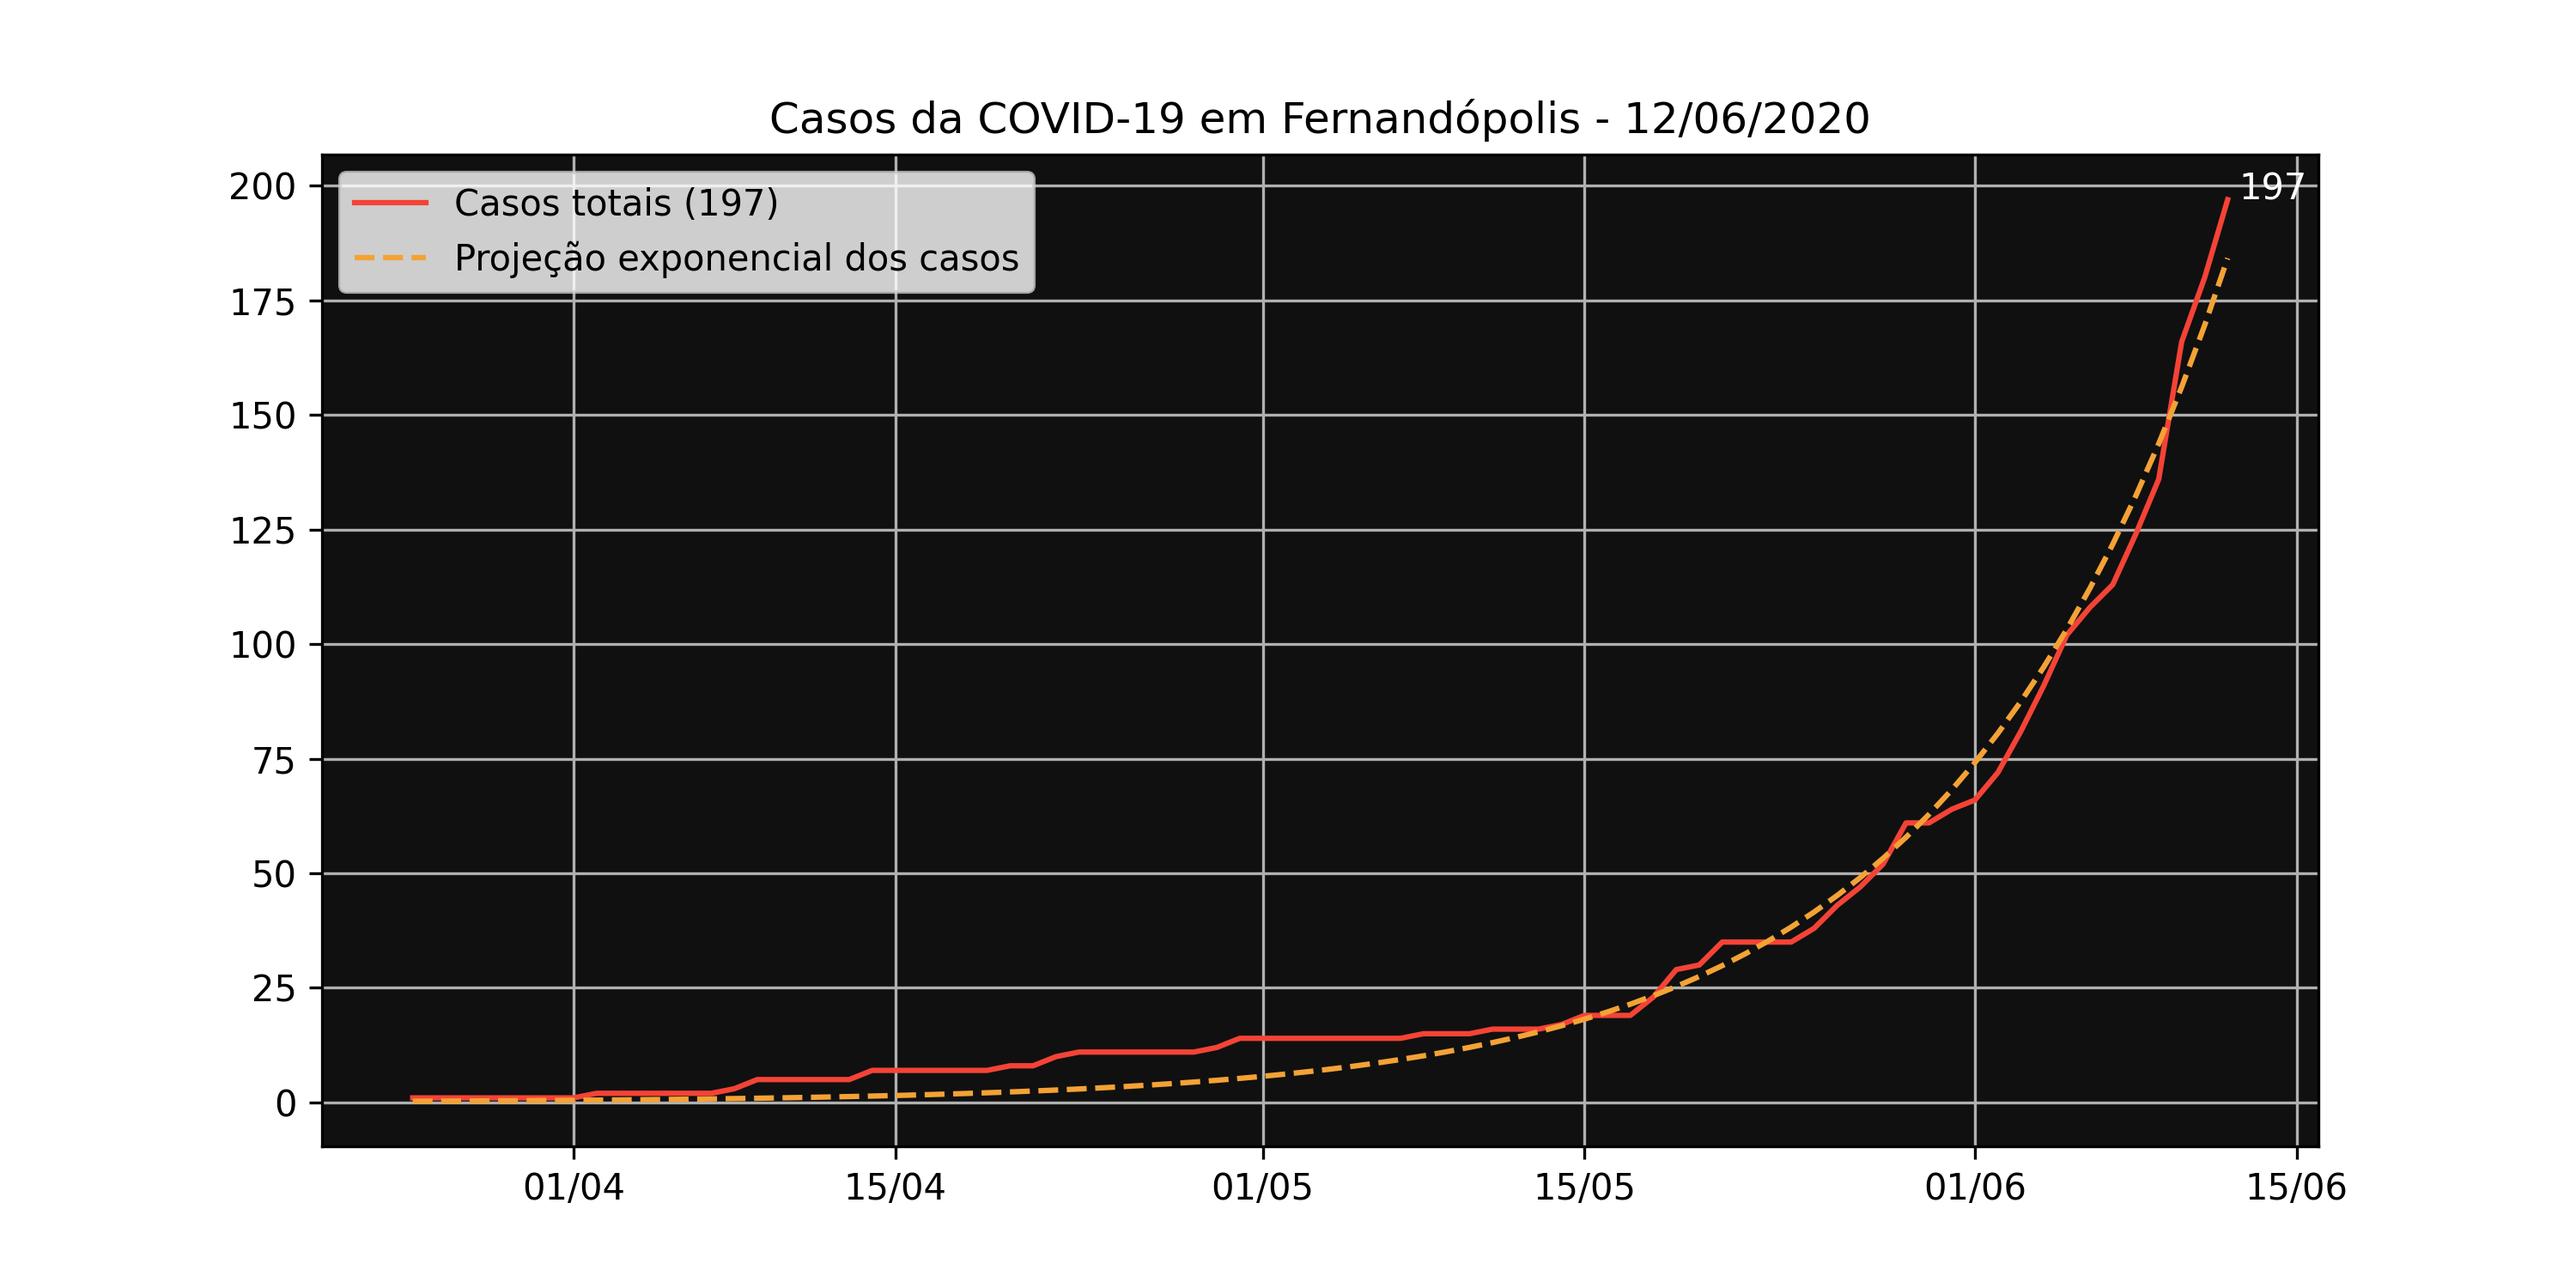
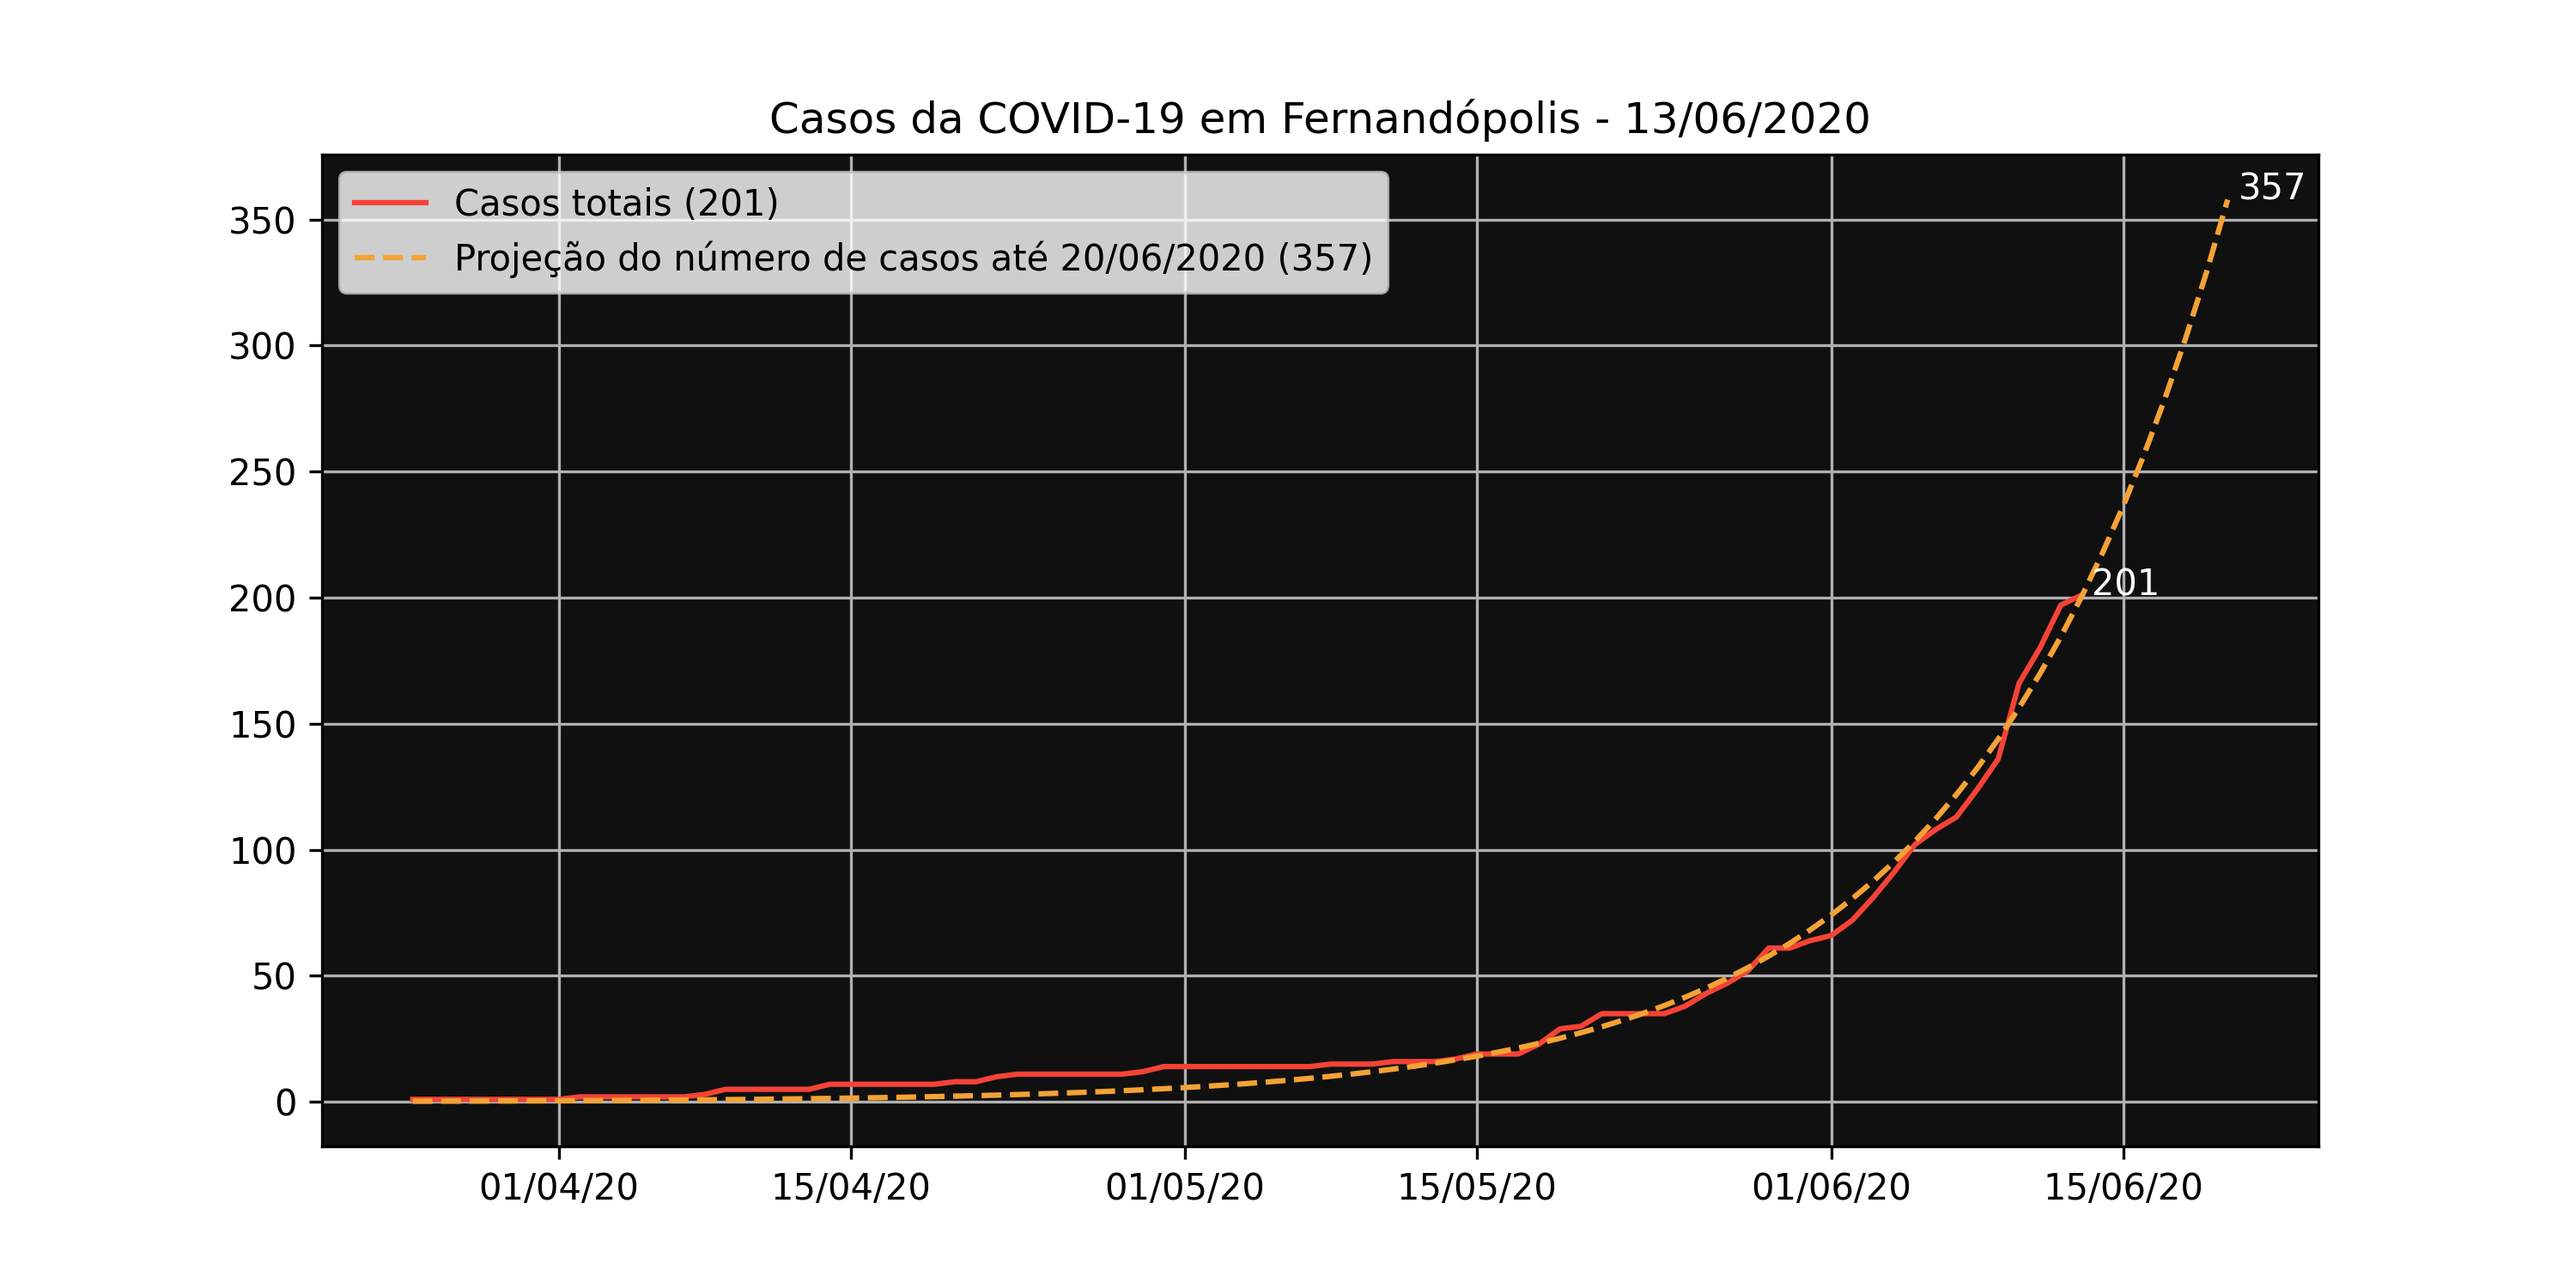
atualização sáb 13 jun 2020 19:39:33 -03

diff --git a/chart-generator/main.py b/chart-generator/main.py
@@ -1,7 +1,7 @@
 from datetime import datetime, timedelta
-import numpy as np
-import matplotlib.pyplot as plt
 import matplotlib.dates as mdates
+import matplotlib.pyplot as plt
+import numpy as np
 import pandas as pd
 import scipy.optimize as opt
 
@@ -15,18 +15,36 @@ def area_chart(ds, dateFmt):
     fig.set_dpi(300)
 
     # draw the curves
-    ax.fill_between(ds['Data'], ds['Casos acumulados'], color='#f44336',
-                    label='Casos totais ({})'.format(ds['Casos acumulados'].values[-1]))
-    ax.stackplot(ds['Data'], ds['Óbitos acumulados'], ds['Curados acumulados'], colors=['#9a9a9a', '#009688'], labels=[
-                 'Óbitos totais ({})'.format(ds['Óbitos acumulados'].values[-1]), 'Curados totais ({})'.format(ds['Curados acumulados'].values[-1])])
+    ax.fill_between(
+        ds['Data'],
+        ds['Casos acumulados'],
+        color='#f44336',
+        label='Casos totais ({})'.format(ds['Casos acumulados'].values[-1]))
+    ax.stackplot(
+        ds['Data'],
+        ds['Óbitos acumulados'],
+        ds['Curados acumulados'],
+        colors=['#9a9a9a', '#009688'],
+        labels=[
+            'Óbitos totais ({})'.format(ds['Óbitos acumulados'].values[-1]),
+            'Curados totais ({})'.format(ds['Curados acumulados'].values[-1])])
 
     # write the total number at the end of the curves
-    ax.text(ds['Data'].values[-1] + np.timedelta64(12, 'h'),
-            ds['Casos acumulados'].values[-1], str(ds['Casos acumulados'].values[-1]), color='w')
-    ax.text(ds['Data'].values[-1] + np.timedelta64(12, 'h'),
-            ds['Curados acumulados'].values[-1], str(ds['Curados acumulados'].values[-1]), color='w')
-    ax.text(ds['Data'].values[-1] + np.timedelta64(12, 'h'),
-            ds['Óbitos acumulados'].values[-1], str(ds['Óbitos acumulados'].values[-1]), color='w')
+    ax.text(
+        ds['Data'].values[-1] + np.timedelta64(12, 'h'),
+        ds['Casos acumulados'].values[-1],
+        str(ds['Casos acumulados'].values[-1]),
+        color='w')
+    ax.text(
+        ds['Data'].values[-1] + np.timedelta64(12, 'h'),
+        ds['Curados acumulados'].values[-1],
+        str(ds['Curados acumulados'].values[-1]),
+        color='w')
+    ax.text(
+        ds['Data'].values[-1] + np.timedelta64(12, 'h'),
+        ds['Óbitos acumulados'].values[-1],
+        str(ds['Óbitos acumulados'].values[-1]),
+        color='w')
 
     # set chart style
     ax.xaxis.set_major_formatter(dateFmt)
@@ -34,8 +52,9 @@ def area_chart(ds, dateFmt):
     ax.set_facecolor('#101010')
 
     # set chart title
-    ax.title.set_text('Situação geral da COVID-19 em Fernandópolis - {}'.format(
-        ds['Data'].iloc[-1].strftime('%d/%m/%Y')))
+    ax.title.set_text(
+        'Situação geral da COVID-19 em Fernandópolis - {}'
+            .format(ds['Data'].iloc[-1].strftime('%d/%m/%Y')))
 
     # draw legend on the upper left corner
     ax.legend(loc='upper left')
@@ -53,16 +72,24 @@ def bar_chart(ds, dateFmt):
     fig.set_dpi(300)
 
     # draw the bars
-    ax.bar(ds['Data'], ds['Novos casos'], color='#f44336', label='Casos novos de {} ({})'.format(
-        ds['Data'].iloc[-1].strftime('%d/%m/%Y'), ds['Novos casos'].values[-1]))
+    ax.bar(
+        ds['Data'],
+        ds['Novos casos'],
+        color='#f44336',
+        label='Casos novos de {} ({})'.format(
+            ds['Data'].iloc[-1].strftime('%d/%m/%Y'),
+            ds['Novos casos'].values[-1]))
 
     # write the number of cases at the top of each bar
     for date in ds['Data']:
         i = (date - datetime.fromisoformat('2020-03-25')).days
         y = ds['Novos casos'].values[i]
         if y != 0:
-            ax.text(date - np.timedelta64(12, 'h'),
-                    y + 0.25, str(y), color='w')
+            ax.text(
+                date - np.timedelta64(12, 'h'),
+                y + 0.25,
+                str(y),
+                color='w')
 
     # set chart style
     ax.xaxis.set_major_formatter(dateFmt)
@@ -70,8 +97,9 @@ def bar_chart(ds, dateFmt):
     ax.set_facecolor('#101010')
 
     # set chart title
-    ax.title.set_text('Casos novos da COVID-19 em Fernandópolis - {}'.format(
-        ds['Data'].iloc[-1].strftime('%d/%m/%Y')))
+    ax.title.set_text(
+        'Casos novos da COVID-19 em Fernandópolis - {}'
+            .format(ds['Data'].iloc[-1].strftime('%d/%m/%Y')))
 
     # draw legend on the upper left corner
     ax.legend(loc='upper left')
@@ -90,21 +118,59 @@ def line_chart(ds, dateFmt):
 
     # exponential function
     def func(x, a, b):
-        return a * np.exp(b * x)
+        return np.exp(a + b * x)
 
     # optimized parameters for exponential curve fitting
-    optimizedParameters, _ = opt.curve_fit(func,  ds['Data'].map(lambda x: (
-        x - datetime.fromisoformat('2020-03-25')).days),  ds['Casos acumulados'],  p0=(1, 0.1))
+    optimizedParameters, _ = opt.curve_fit(
+        func,
+        ds['Data'].map(
+            lambda x: (x - datetime.fromisoformat('2020-03-25')).days),
+        ds['Casos acumulados'])
+
+    # list of days extended over 7 days
+    extDate = ds['Data'].copy()
+    for i in range(1, 8):
+        extDate = extDate.append(
+            pd.Series(
+                [ds['Data'].iloc[-1] + timedelta(days=i)],
+                index=[ds['Data'].size + i - 1]))
 
     # draw the curves
-    ax.plot(ds['Data'], ds['Casos acumulados'], color='#f44336',
-            label='Casos totais ({})'.format(ds['Casos acumulados'].values[-1]))
-    ax.plot(ds['Data'], func(ds['Data'].map(lambda x: (x - datetime.fromisoformat('2020-03-25')).days),
-                             *optimizedParameters), color='#f4a235', linestyle='dashed', label='Projeção exponencial dos casos')
+    ax.plot(
+        ds['Data'],
+        ds['Casos acumulados'],
+        color='#f44336',
+        label='Casos totais ({})'.format(ds['Casos acumulados'].values[-1]))
+    ax.plot(
+        extDate,
+        func(
+            extDate.map(
+                lambda x: (x - datetime.fromisoformat('2020-03-25')).days),
+            *optimizedParameters),
+        color='#f4a235',
+        linestyle='dashed',
+        label='Projeção do número de casos até {} ({:.0f})'.format(
+            extDate.iloc[-1].strftime('%d/%m/%Y'),
+            np.floor(func(
+                (extDate.iloc[-1] - datetime.fromisoformat('2020-03-25')).days,
+                *optimizedParameters))))
 
     # write the number of cases at the end of the curve
-    ax.text(ds['Data'].values[-1] + np.timedelta64(12, 'h'),
-            ds['Casos acumulados'].values[-1], str(ds['Casos acumulados'].values[-1]), color='w')
+    ax.text(
+        ds['Data'].values[-1] + np.timedelta64(12, 'h'),
+        ds['Casos acumulados'].values[-1],
+        str(ds['Casos acumulados'].values[-1]),
+        color='w')
+    ax.text(
+        extDate.iloc[-1] + timedelta(hours=12),
+        func(
+            (extDate.iloc[-1] - datetime.fromisoformat('2020-03-25')).days,
+            *optimizedParameters),
+        '{:.0f}'.format(
+            np.floor(func(
+                (extDate.iloc[-1] - datetime.fromisoformat('2020-03-25')).days,
+                *optimizedParameters))),
+        color='w')
 
     # set chart style
     ax.xaxis.set_major_formatter(dateFmt)
@@ -112,8 +178,9 @@ def line_chart(ds, dateFmt):
     ax.set_facecolor('#101010')
 
     # set chart title
-    ax.title.set_text('Casos da COVID-19 em Fernandópolis - {}'.format(
-        ds['Data'].iloc[-1].strftime('%d/%m/%Y')))
+    ax.title.set_text(
+        'Casos da COVID-19 em Fernandópolis - {}'
+            .format(ds['Data'].iloc[-1].strftime('%d/%m/%Y')))
 
     # draw legend on the upper left corner
     ax.legend(loc='upper left')
@@ -126,7 +193,7 @@ def main():
     ds = pd.read_csv('../boletim-epidemiologico.csv')
     ds['Data'] = ds['Data'].map(
         lambda x: datetime.strptime(str(x), '%d/%m/%y'))
-    dateFmt = mdates.DateFormatter('%d/%m')
+    dateFmt = mdates.DateFormatter('%d/%m/%y')
     area_chart(ds, dateFmt)
     bar_chart(ds, dateFmt)
     line_chart(ds, dateFmt)

diff --git a/README.md b/README.md
@@ -1,4 +1,5 @@
 # covid-19-fernandopolis
+
 Repositório público para a divulgação dos casos da COVID-19 de Fernandópolis / SP.
 
 Os dados aqui apresentados são retirados dos boletins epidemiológicos publicados pela prefeitura municipal na sua página do Facebook e por isso apresentam um atraso na sua atualização. Os gráficos gerados pelo script em Python servem apenas de referência, como uma forma de visualização gráfica dos dados já apresentados pela prefeitura. Como já esclarecido na licença, todo o conteúdo desse repositório é de domínio público e pode ser copiado, alterado e republicado livremente.
